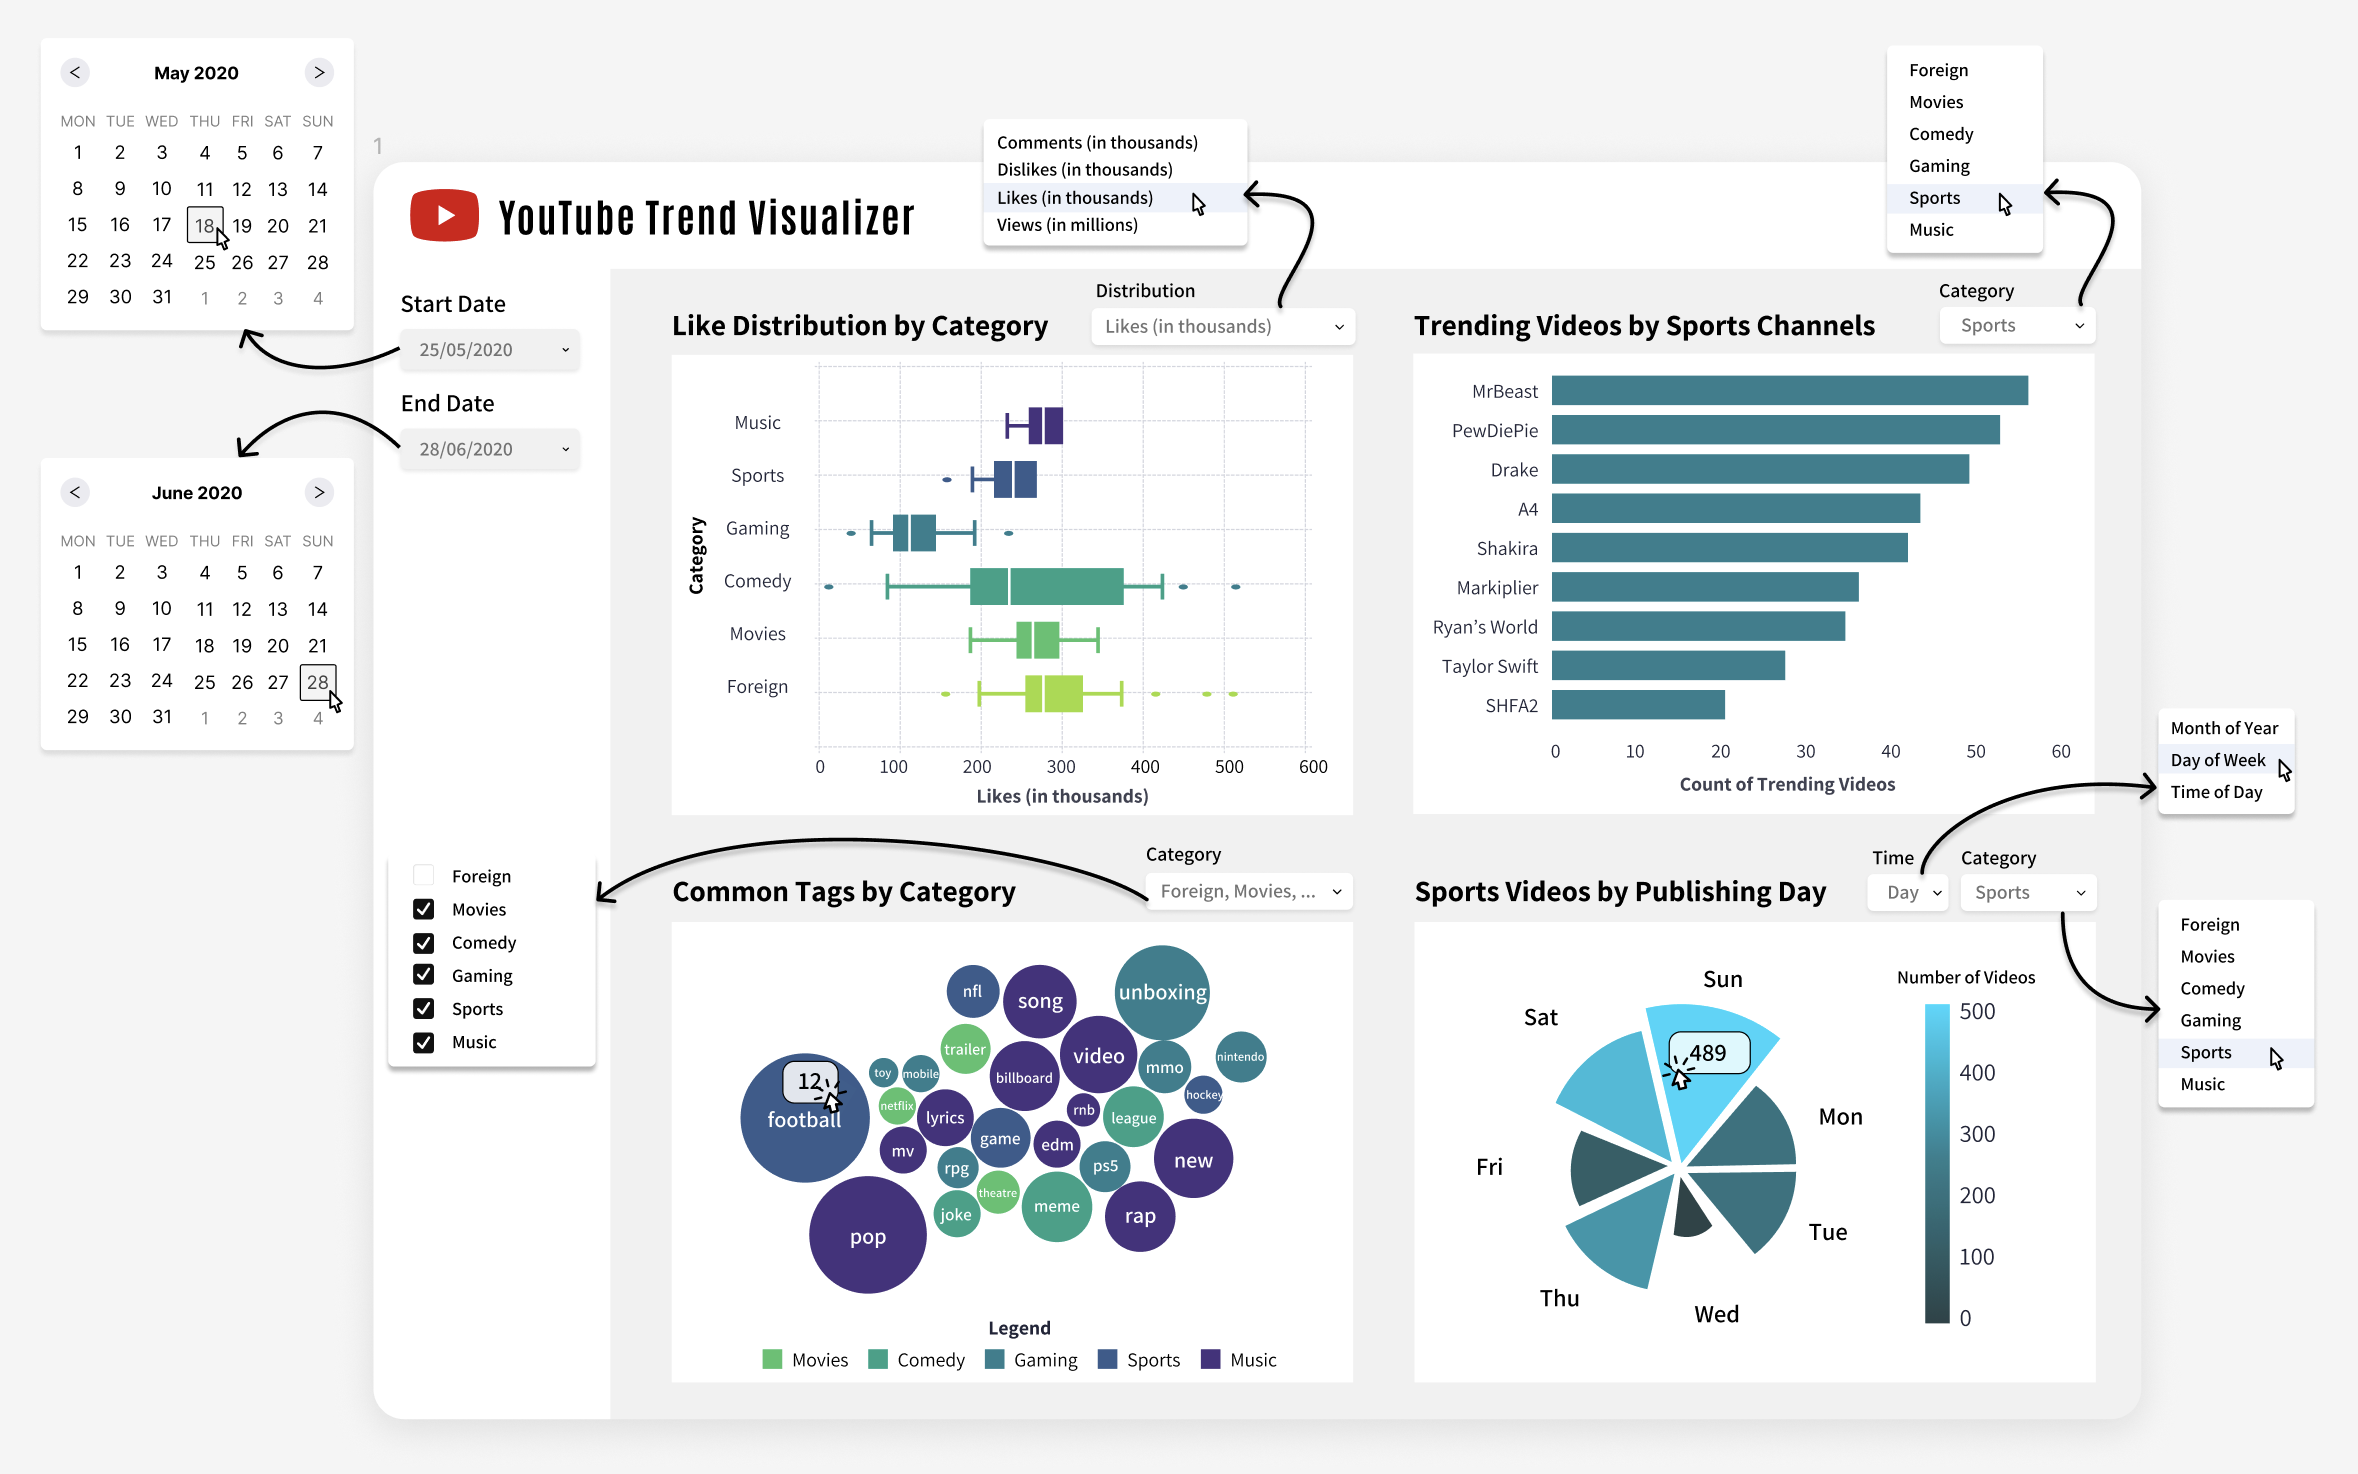
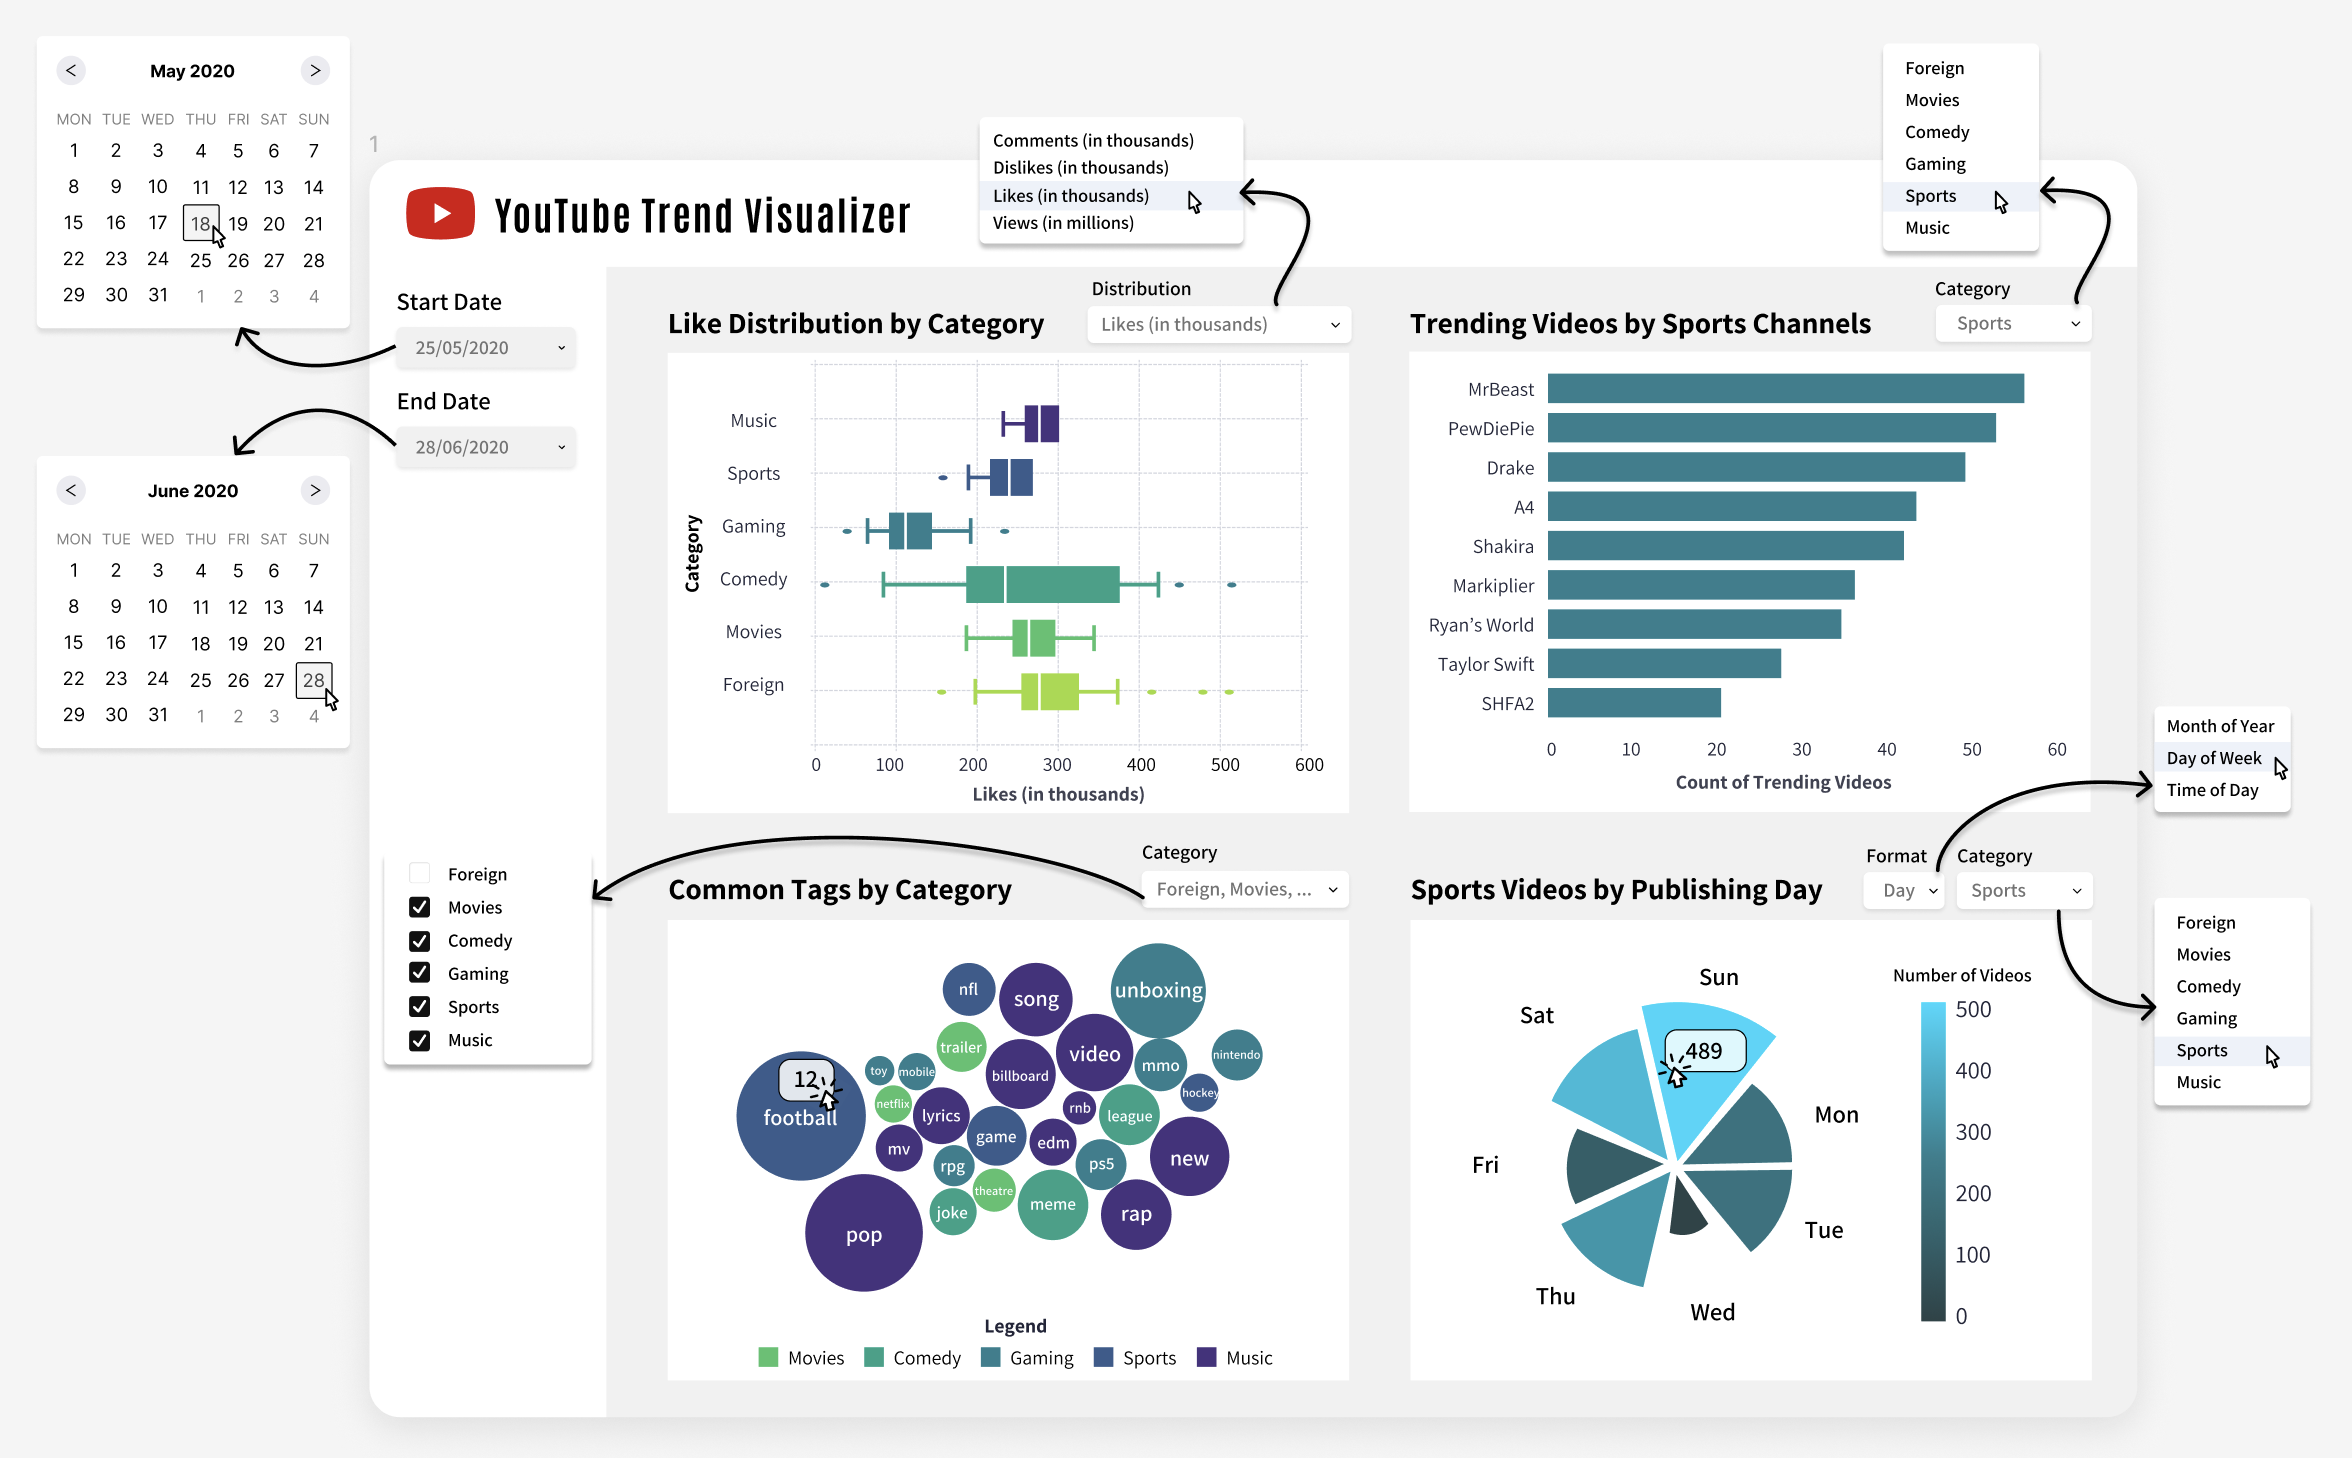
change dropdown to format

diff --git a/README.md b/README.md
@@ -4,6 +4,14 @@ Authors: Daniel Cairns, Natalie Cho, Lauren Zung
 
 ## Dashboard Features
 
+**Category Boxplots**
+
+**Top Channels Bar Chart**
+
+**Popular Tags Bubble Chart**
+
+**Publishing Date Circular Bar Chart**
+
 
 ## App Sketch
 
